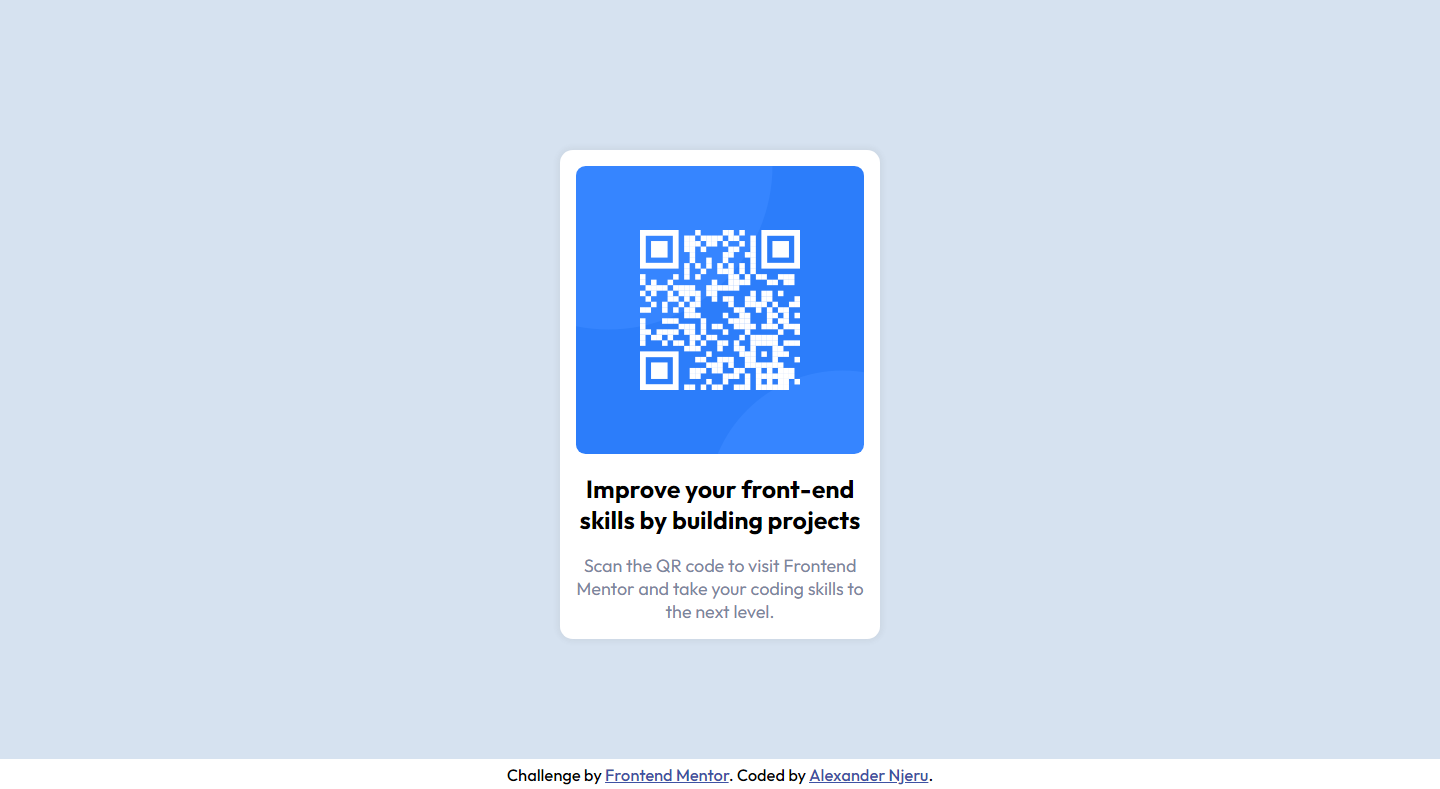
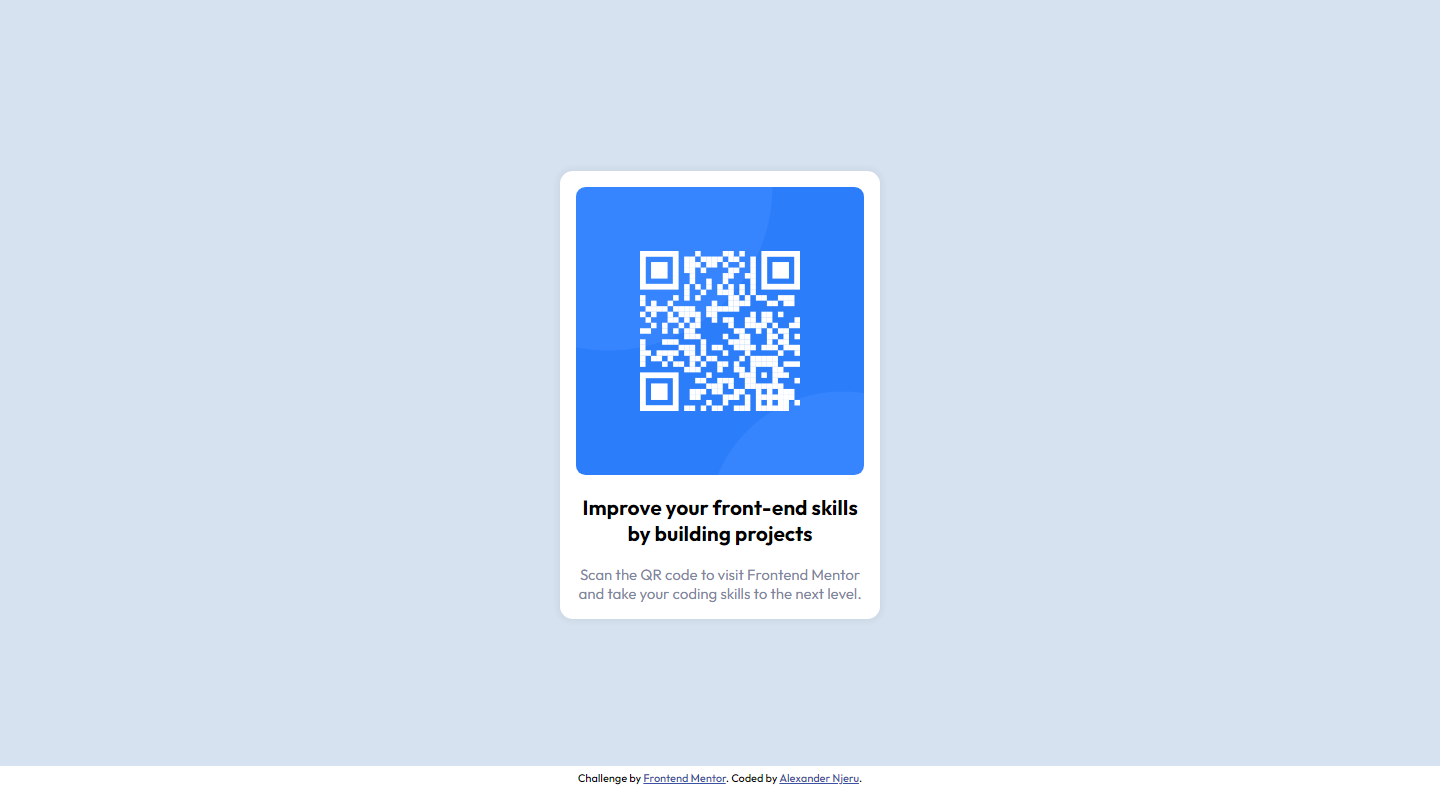
Add files via upload

diff --git a/card.css b/card.css
@@ -52,8 +52,6 @@ body{
     box-shadow:  0 0 5px 3px #5551;
     & .img{
         margin: auto;
-        width: 15.8rem;
-        height: 15.8rem;
         overflow: hidden;
         border-radius: .6em;
     }
@@ -84,63 +82,4 @@ footer {
 
 footer a {
     color: hsl(228, 45%, 44%);
-}
-
-@media (min-width: 375px) {
-    .card {
-        & .img {
-            width: 18rem;
-            height: 18rem;
-        }
-
-        & .title {
-            font-size: 1.5em;
-            width: 18rem;
-        }
-        & .text{
-            font-size: 1.05em;
-            width: 18rem;
-        }
-    }
-    
-        .footer {    
-            & p {
-                font-size: 1.1em;
-            }
-        }
-}
-
-@media (min-width: 1440px) {
-    .card {    
-        & .img {
-            width: 18rem;
-            height: 18rem;
-        }
-
-        & .title {
-            font-size: 1.55em;        
-        }
-
-        & .text {
-            font-size: 1.12em;        
-        }
-    }    
-.footer {
-        & p {
-            font-size: 1.5em;
-        }
-    }
-}
-
-
-@media (min-width: 375px){
-    .container{
-        width: 100%;
-    }
-}
-
-@media (min-width: 1440px){
-    .container{
-        width: 100%;
-    }
 }
